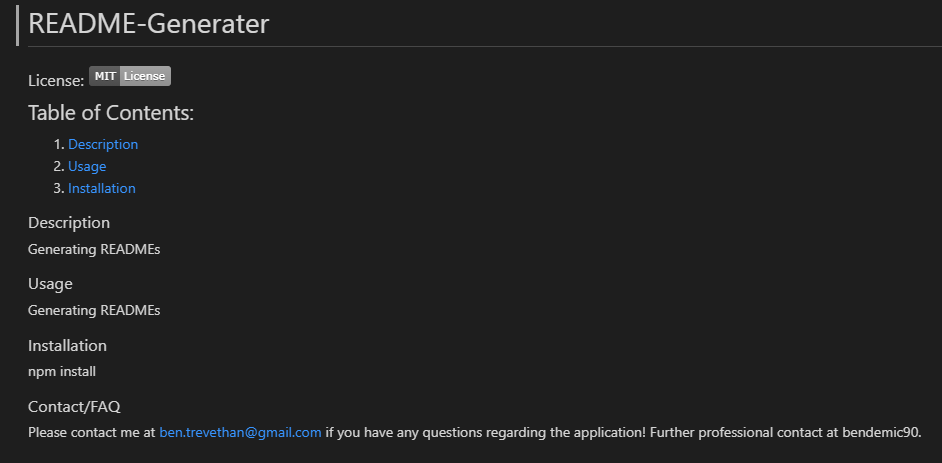
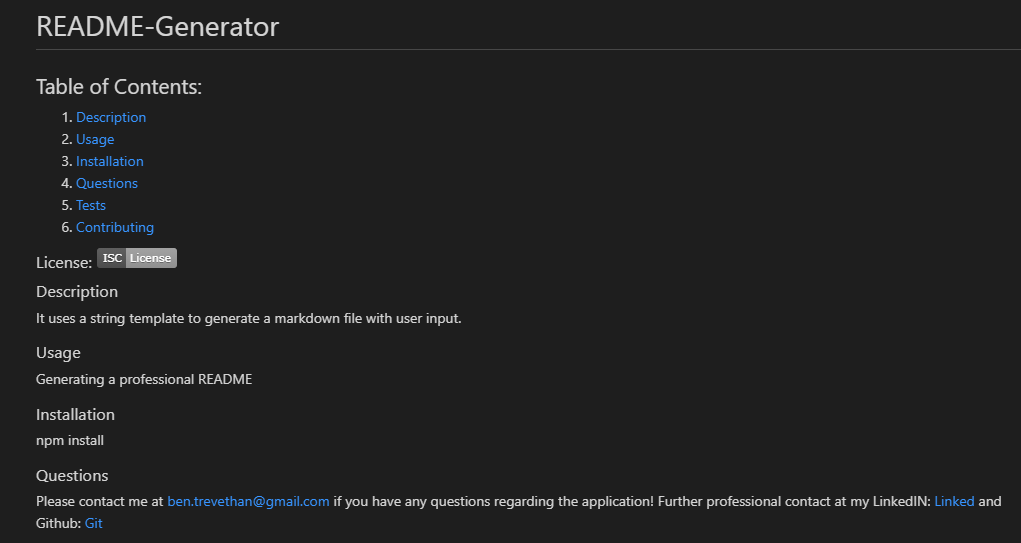
testing new literals and updated screenshots

Changed region(s): [[0.0, 0.0302, 1.0, 0.9978]]

diff --git a/index.js b/index.js
@@ -16,7 +16,7 @@ const promptUser = () => {
       type: 'list',
       name: 'license',
       message: 'What license do you use?', 
-      choices: ['MIT', 'GNU-GPLv3', 'Apache', 'Personal/Proprietary']
+      choices: ['MIT', 'GNU-GPLv3', 'Apache', 'ISC']
     },
     {
       type: 'input',
@@ -27,6 +27,11 @@ const promptUser = () => {
       type: 'input',
       name: 'usage',
       message: 'What is your app used for?',
+    },
+    {
+      type: 'input',
+      name: 'description',
+      message: 'Describe how your application works.',
     },
     {
       type: 'input',
@@ -43,6 +48,11 @@ const promptUser = () => {
       name: 'linkedin',
       message: 'Enter your LinkedIn URL.',
     },
+    {
+      type: 'input',
+      name: 'test',
+      message: 'How does one test your application?',
+    },
   ]);
 };
 
@@ -50,15 +60,18 @@ const generateReadme = (answers) =>
   ` 
   # ${answers.name}
 
-  ### License: ![License](https://img.shields.io/static/v1?label=${answers.license}&message=License)
-
   ## Table of Contents:
   1. [Description](###description)
   2. [Usage](###usage)
   3. [Installation](###installation)
+  4. [Questions](###questions)
+  5. [Tests](###tests)
+  6. [Contributing](###contributing)
+
+  ### License: ![License](https://img.shields.io/static/v1?label=${answers.license}&message=License)
 
   ### Description
-  ${answers.usage}
+  > ${answers.description}
 
   ### Usage 
   ${answers.usage}
@@ -66,9 +79,17 @@ const generateReadme = (answers) =>
   ### Installation
   ${answers.installation}
 
-  ### Contact/FAQ
-  Please contact me at ${answers.email} if you have any questions regarding the application!
-  Further professional contact at ${answers.linkedin}.
+  ### Questions
+  - Please contact me at ${answers.email} if you have any questions regarding the application!
+  - Further professional contact at my LinkedIN: [Linked](https://www.linkedin.com/in/${answers.linkedin}/)
+  - Github: [Git](github.com/${answers.github}/)
+
+  ### Tests
+  ${answers.test}
+
+  ### Contributing
+  If you wish to contribute to this application please send a request to me at: ${answers.email}.
+  Or you can also send an issue via github to me at: [Git](github.com/${answers.github}/)
 
   `;
 
